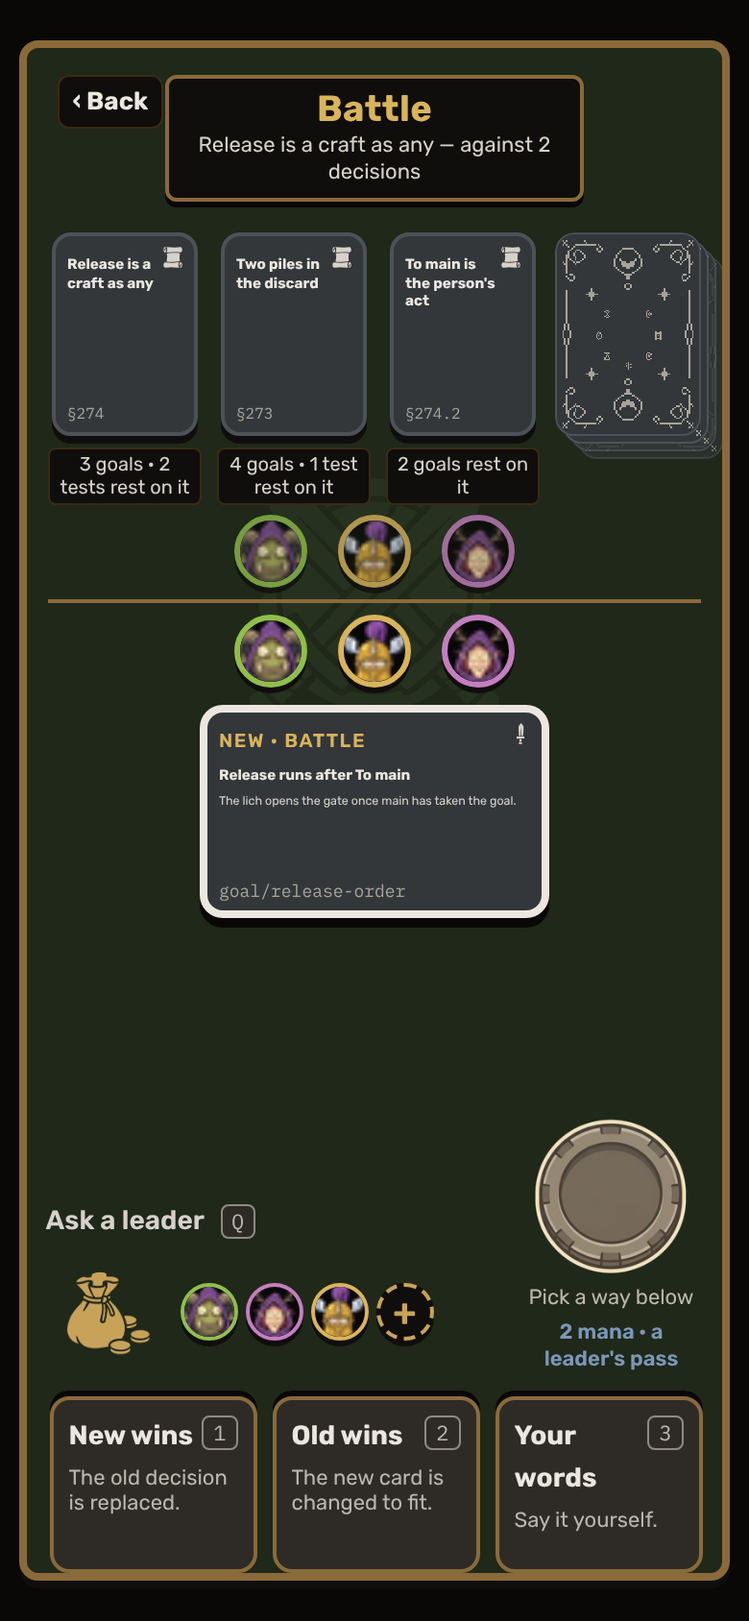
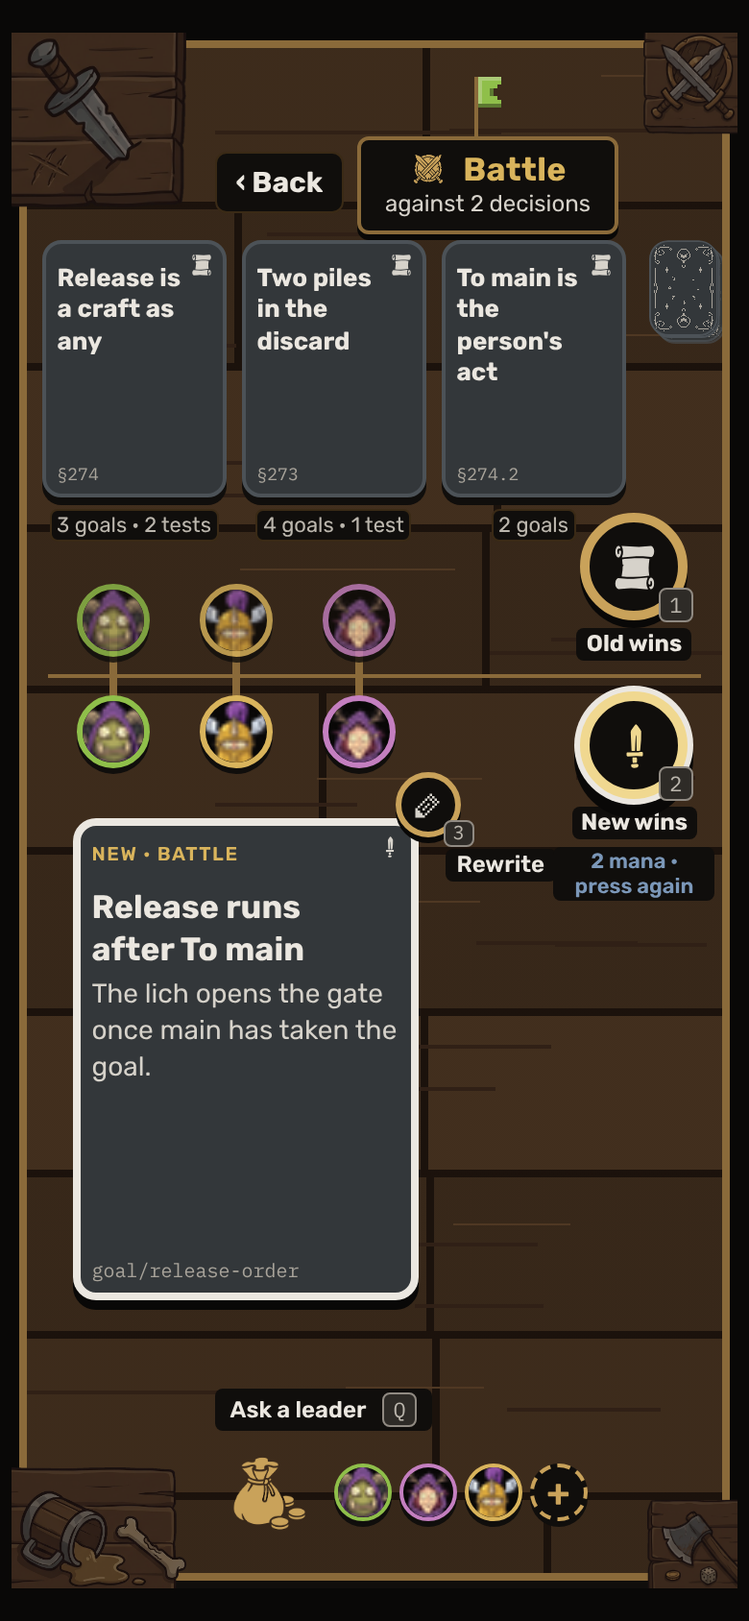
The battle field's mockup on a tavern's wooden table: props in the corners, no hand or seal, the move two tokens on the line's sides
Claude-Session: https://claude.ai/code/session_01MCU3dnmwpxzAdFr5WE7TTZ

diff --git a/docs/mockups/battle-field/index.html b/docs/mockups/battle-field/index.html
@@ -8,150 +8,185 @@
 <link rel="stylesheet" href="../../../design-system/orkui/tokens.css">
 <link rel="stylesheet" href="../../../design-system/orkui/components.css">
 <style>
-:root { --R: ../../../design-system/orkui/races/; --G: ../../../design-system/orkui/signs/; --E: emblems/;
-  --felt: var(--ork-felt-ork-3); --felt-hi: var(--ork-felt-ork-2);
-  --cw: 158px; --nw: 172px; --tk: 46px; --seal: 112px; --pouch: 100px; --hw: 150px; --pad: 110px; }
+:root { --wood-a: color-mix(in srgb, var(--ork-leather) 46%, var(--ork-room)); --wood-b: color-mix(in srgb, var(--ork-leather) 41%, var(--ork-room));
+  --wood-c: color-mix(in srgb, var(--ork-leather) 50%, var(--ork-room)); --seam: color-mix(in srgb, var(--ork-leather-edge) 55%, var(--ork-room));
+  --grain: color-mix(in srgb, var(--ork-leather-lo) 60%, var(--ork-room)); --grain-hi: color-mix(in srgb, var(--ork-leather) 62%, var(--ork-room));
+  --ph: 96px; --sm: 4px;
+  --cw: 158px; --nw: 190px; --tk: 46px; --chp: 64px; --pouch: 100px; --pad: 112px; --prop: 170px; --em: 20px; }
 * { box-sizing: border-box; }
 html, body { margin: 0; height: 100%; }
 body { background: var(--ork-room); color: var(--ork-ink); font: var(--ork-type-body); overflow: hidden; }
 body[data-face="desk"] { width: 1440px; height: 900px; }
-body[data-face="phone"] { width: 390px; height: 844px; --cw: 76px; --nw: 178px; --tk: 38px; --seal: 84px; --pouch: 64px; --hw: 108px; --pad: 0px; }
+body[data-face="phone"] { width: 390px; height: 844px; --ph: 80px; --cw: 96px; --nw: 176px; --tk: 38px; --chp: 56px; --pouch: 56px; --pad: 100px; --prop: 91px; }
 .stage { position: absolute; inset: 2.5%; }
-.field { position: absolute; inset: 0; background: var(--felt); border: 4px solid var(--ork-bronze); border-radius: var(--ork-radius-card);
-  box-shadow: 0 4px 0 var(--ork-plate); overflow: hidden; display: flex; flex-direction: column; }
-.mono { font-family: var(--ork-font-code); }
+.field { position: absolute; inset: 0; border: 4px solid var(--ork-bronze); border-radius: var(--ork-radius-card); box-shadow: 0 4px 0 var(--ork-plate);
+  overflow: hidden; display: flex; flex-direction: column;
+  background: repeating-linear-gradient(180deg,
+    var(--wood-a) 0 var(--ph), var(--seam) var(--ph) calc(var(--ph) + var(--sm)),
+    var(--wood-b) calc(var(--ph) + var(--sm)) calc(2 * var(--ph) + var(--sm)), var(--seam) calc(2 * var(--ph) + var(--sm)) calc(2 * var(--ph) + 2 * var(--sm)),
+    var(--wood-c) calc(2 * var(--ph) + 2 * var(--sm)) calc(3 * var(--ph) + 2 * var(--sm)), var(--seam) calc(3 * var(--ph) + 2 * var(--sm)) calc(3 * var(--ph) + 3 * var(--sm)),
+    var(--wood-b) calc(3 * var(--ph) + 3 * var(--sm)) calc(4 * var(--ph) + 3 * var(--sm)), var(--seam) calc(4 * var(--ph) + 3 * var(--sm)) calc(4 * var(--ph) + 4 * var(--sm))); }
+.grain { position: absolute; inset: 0; z-index: 0; pointer-events: none; }
+.grain i { position: absolute; display: block; height: 2px; background: var(--grain); }
+.grain i.hi { background: var(--grain-hi); height: 1px; } .grain i.bt { width: var(--sm); height: var(--ph); background: var(--seam); }
+/* corner props */
+.prop { position: absolute; z-index: 20; pointer-events: none; filter: brightness(.47) saturate(.9); }
+.prop img { display: block; max-width: var(--prop); max-height: var(--prop); width: auto; height: auto; }
+.prop.tl { left: -4px; top: -4px; } .prop.tr { right: -4px; top: -4px; } .prop.bl { left: -4px; bottom: -4px; } .prop.br { right: -4px; bottom: -4px; }
 /* top */
-.top { position: absolute; top: 14px; left: 16px; right: 16px; display: flex; justify-content: center; z-index: 5; pointer-events: none; }
-.back { position: absolute; left: 0; top: 0; pointer-events: auto; display: flex; gap: 8px; align-items: center; padding: 6px 10px; font: var(--ork-type-button);
-  background: var(--ork-plate); border: 1px solid var(--ork-bronze-lo); border-radius: var(--ork-radius-control); color: var(--ork-ink); }
+.top { position: absolute; top: 44px; left: 0; right: 0; display: flex; justify-content: center; z-index: 5; }
+body[data-face="desk"] .back { left: 190px; }
+.back { position: absolute; top: 14px; display: flex; gap: 8px; align-items: center; padding: 6px 10px; font: var(--ork-type-button);
+  background: var(--ork-plate); border: 1px solid var(--ork-bronze-lo); border-radius: var(--ork-radius-control); color: var(--ork-ink); white-space: nowrap; }
 kbd { font: 500 11px/14px var(--ork-font-code); padding: 1px 5px; border: 1px solid var(--ork-edge); border-radius: 4px; color: var(--ork-ink-muted); background: var(--ork-raised); }
-.plate { text-align: center; padding: 6px 18px 8px; background: var(--ork-plate); border: 2px solid var(--ork-bronze); border-radius: var(--ork-radius-control); box-shadow: 0 3px 0 var(--ork-room); max-width: 60%; }
-.plate b { display: block; font: var(--ork-type-title); letter-spacing: var(--ork-type-title-track); color: var(--ork-gilt); }
+.plate { position: relative; text-align: center; padding: 6px 18px 8px; background: var(--ork-plate); border: 2px solid var(--ork-bronze); border-radius: var(--ork-radius-control); box-shadow: 0 3px 0 var(--ork-room); }
+.plate b { display: flex; justify-content: center; align-items: center; gap: 8px; font: var(--ork-type-title); letter-spacing: var(--ork-type-title-track); color: var(--ork-gilt); }
+.plate b i { width: var(--em); height: var(--em); background: var(--ork-bronze-hi); -webkit-mask: url(emblems/battle.png) center / contain no-repeat; mask: url(emblems/battle.png) center / contain no-repeat; }
 .plate span { display: block; font: var(--ork-type-caption); color: var(--ork-ink-read); }
+.plate .ork-pennant { position: absolute; left: 50%; bottom: calc(100% + 1px); translate: -50% 0; }
+.plate .full { display: inline; } .plate .short { display: none; }
+body[data-face="phone"] .top { top: 46px; left: 98px; right: 54px; justify-content: flex-start; }
+body[data-face="phone"] .back { left: 0; top: 8px; }
+body[data-face="phone"] .plate { margin-left: 74px; flex: 1; padding: 4px 8px 6px; }
+body[data-face="phone"] .plate span { font-size: 12px; line-height: 15px; }
+body[data-face="phone"] .plate .full { display: none; } body[data-face="phone"] .plate .short { display: inline; }
+body[data-face="phone"] .plate b { font-size: 17px; line-height: 22px; }
 /* zones */
 .zone { flex: 1 1 0; min-height: 0; display: flex; justify-content: center; position: relative; z-index: 2; }
-.oldz { align-items: flex-start; gap: 20px; padding-top: var(--pad); padding-bottom: 64px; }
-.newz { align-items: flex-start; padding-bottom: var(--pad); padding-top: 62px; justify-content: center; }
-.linezone { position: relative; height: 0; }
-.line { position: absolute; left: 3%; right: 3%; top: -1px; height: 2px; background: var(--ork-bronze); z-index: 1; }
-.emblem { position: absolute; left: 50%; top: 0; width: var(--em); height: var(--em); translate: -50% -50%; background: var(--felt-hi);
-  -webkit-mask: url(emblems/battle.png) center / contain no-repeat; mask: url(emblems/battle.png) center / contain no-repeat; z-index: 1; }
-.field { --em: 385px; }
-body[data-face="phone"] .field { --em: 171px; }
-.toks { position: absolute; left: 50%; translate: -50% 0; display: flex; gap: 16px; z-index: 4; }
-.toks.up { bottom: 7px; } .toks.dn { top: 7px; }
-.tk { width: var(--tk); height: var(--tk); border-radius: 50%; background: var(--ork-room); border: 3px solid var(--hue); display: grid; place-items: center; overflow: hidden;
-  box-shadow: 0 3px 0 var(--ork-plate); flex: none; }
+.oldz { align-items: flex-start; gap: 18px; padding-top: var(--pad); padding-bottom: 70px; }
+.newz { align-items: flex-start; padding-top: 66px; }
+.linezone { position: relative; height: 0; z-index: 3; }
+.line { position: absolute; left: 3%; right: 3%; top: -1px; height: 2px; background: var(--ork-bronze); }
+/* leaders' columns */
+.cols { position: absolute; left: 30%; top: 0; translate: -50% 0; display: flex; gap: 26px; }
+.lc { position: relative; width: var(--tk); height: 0; }
+.lc .tie { position: absolute; left: 50%; width: 4px; translate: -50% 0; top: calc(-10px - var(--tk) / 2); height: calc(20px + var(--tk)); background: var(--ork-bronze); border-radius: 2px; }
+.tk { position: absolute; left: 0; width: var(--tk); height: var(--tk); border-radius: 50%; background: var(--ork-room); border: 3px solid var(--hue); display: grid; place-items: center; overflow: hidden; box-shadow: 0 3px 0 var(--ork-plate); }
 .tk img { width: 112%; height: 112%; object-fit: cover; object-position: center 20%; }
-.tk.was { opacity: .78; }
-.tk.add { background: var(--ork-plate); border: 2px dashed var(--ork-bronze-hi); color: var(--ork-bronze-hi); font: 700 20px/1 var(--ork-font-text); }
+.tk.was { bottom: 10px; opacity: .8; } .tk.is { top: 10px; }
 .tech { --hue: var(--ork-party-ork); } .design { --hue: var(--ork-party-elf); } .product { --hue: var(--ork-party-knight); }
+/* move chips */
+.mv { position: absolute; right: 80px; display: flex; flex-direction: column; align-items: center; gap: 4px; width: 150px; text-align: center; z-index: 4; }
+body[data-face="phone"] .mv { right: 4px; width: 84px; }
+.mv.up { bottom: 8px; } .mv.dn { top: 8px; }
+.chip { position: relative; width: var(--chp); height: var(--chp); border-radius: 50%; background: var(--ork-plate); border: 5px solid var(--ork-bronze-hi); box-shadow: 0 4px 0 var(--ork-room); display: grid; place-items: center; }
+.chip i { width: 55%; height: 55%; background: var(--ork-ink-read); -webkit-mask: var(--m) center / contain no-repeat; mask: var(--m) center / contain no-repeat; }
+.chip kbd { position: absolute; right: -8px; bottom: -6px; }
+.chip.armed { border-color: var(--ork-gilt-hi); box-shadow: 0 0 0 3px var(--ork-ink), 0 7px 0 3px var(--ork-room); }
+.chip.armed i { background: var(--ork-gilt-hi); }
+.mv b { font: var(--ork-type-heading); font-size: 14px; line-height: 17px; padding: 1px 7px; background: var(--ork-plate); border-radius: 4px; }
+.mv small { font: 600 12px/15px var(--ork-font-text); color: var(--ork-mana); background: var(--ork-plate); padding: 1px 6px; border-radius: 4px; }
+body[data-face="phone"] .mv b { font-size: 12px; line-height: 15px; padding: 1px 5px; } body[data-face="phone"] .mv small { font-size: 11px; line-height: 13px; padding: 1px 4px; }
 /* cards */
 .col { display: flex; flex-direction: column; align-items: center; gap: 6px; }
 .card { position: relative; width: var(--cw); height: calc(var(--cw) * 1.4); overflow: hidden; padding: 12px 10px 10px; background: var(--ork-card); border: 2px solid var(--ork-card-frame);
   border-radius: var(--ork-radius-card); box-shadow: 0 4px 0 var(--ork-plate); display: flex; flex-direction: column; gap: 4px; }
-.card .sg { position: absolute; top: 8px; right: 8px; width: 18px; height: 18px; background: var(--ork-ink-read);
-  -webkit-mask: var(--m) center / contain no-repeat; mask: var(--m) center / contain no-repeat; }
+.card .sg { position: absolute; top: 8px; right: 8px; width: 18px; height: 18px; background: var(--ork-ink-read); -webkit-mask: var(--m) center / contain no-repeat; mask: var(--m) center / contain no-repeat; }
 .card .kind { font: var(--ork-type-label); text-transform: uppercase; letter-spacing: .08em; font-size: 10px; line-height: 14px; color: var(--ork-ink-muted); }
-.card b { font: 700 calc(var(--cw) * .1)/1.25 var(--ork-font-text); margin-top: 6px; padding-right: 6px; }
-.card .ln { font-size: calc(var(--cw) * .082); line-height: 1.35; color: var(--ork-ink-read); }
-.card .id { margin-top: auto; font: 500 calc(var(--cw) * .07)/1 var(--ork-font-code); color: var(--ork-ink-faint); }
-.card.sel { width: var(--nw); border-color: var(--ork-ink); box-shadow: 0 0 0 2px var(--ork-ink), 0 5px 0 2px var(--ork-room); }
-.card.sel .kind { color: var(--ork-gilt); }
-.rest { width: calc(var(--cw) + 8px); padding: 3px 6px; text-align: center; background: var(--ork-plate); border: 1px solid var(--ork-bronze-lo); border-radius: 4px; font: 400 calc(11px) / 14px var(--ork-font-text); color: var(--ork-ink-read); }
-body[data-face="phone"] .rest { font-size: 10px; line-height: 12px; padding: 2px 3px; width: calc(var(--cw) + 4px); }
+.card b { font: 700 16px/1.25 var(--ork-font-text); margin-top: 6px; padding-right: 6px; }
+.card .ln { font-size: 13px; line-height: 1.35; color: var(--ork-ink-read); }
+.card .id { margin-top: auto; font: 500 11px/1 var(--ork-font-code); color: var(--ork-ink-faint); }
+.newwrap { position: relative; }
+.card.sel { width: var(--nw); height: calc(var(--nw) * 1.4); border-color: var(--ork-ink); box-shadow: 0 0 0 2px var(--ork-ink), 0 5px 0 2px var(--ork-room); }
+.card.sel .kind { color: var(--ork-gilt); } .card.sel b { font-size: 19px; } .card.sel .ln { font-size: 14px; }
+.rest { white-space: nowrap; padding: 2px 6px; text-align: center; background: var(--ork-plate); border: 1px solid var(--ork-bronze-lo); border-radius: 4px; font: 400 12px/15px var(--ork-font-text); color: var(--ork-ink-muted); }
 .pile { position: relative; width: var(--cw); height: calc(var(--cw) * 1.4); margin-left: 10px; flex: none; }
 .pile .ork-card-back { position: absolute; width: 100%; box-shadow: none; }
 .pile .ork-card-back:nth-child(1) { left: 12px; top: 12px; opacity: .6; } .pile .ork-card-back:nth-child(2) { left: 8px; top: 8px; opacity: .8; }
 .pile .ork-card-back:nth-child(3) { left: 4px; top: 4px; } .pile .ork-card-back:nth-child(4) { left: 0; top: 0; }
+.rewrite { position: absolute; right: -24px; top: -26px; width: 34px; height: 34px; z-index: 6; }
+.rewrite .chip { --chp: 34px; border-width: 3px; box-shadow: 0 3px 0 var(--ork-room); }
+.rewrite .chip kbd { right: -10px; bottom: -8px; font-size: 10px; line-height: 12px; padding: 0 4px; }
+.rewrite .lab { position: absolute; left: calc(100% - 8px); top: 40px; font: 600 12px/15px var(--ork-font-text); background: var(--ork-plate); padding: 1px 6px; border-radius: 4px; white-space: nowrap; }
 .desk-only { display: block; } body[data-face="phone"] .desk-only { display: none; }
-/* pouch and seal */
-.pouchbar { position: absolute; left: 20px; bottom: 120px; z-index: 6; display: flex; align-items: center; gap: 10px; }
-.pouch { width: var(--pouch); height: var(--pouch); background: var(--ork-bronze-hi); flex: none;
-  -webkit-mask: url(emblems/pouch.png) center / contain no-repeat; mask: url(emblems/pouch.png) center / contain no-repeat; }
-.pouchbar .cap { position: absolute; left: 0; bottom: calc(100% + 6px); white-space: nowrap; display: flex; gap: 8px; align-items: center; font: var(--ork-type-label); text-transform: none; letter-spacing: 0; color: var(--ork-ink-read); }
-.pouchbar .tk { --tk: 38px; width: 38px; height: 38px; }
+/* pouch */
+.pouchbar { position: absolute; z-index: 6; display: flex; align-items: center; gap: 10px; left: 190px; bottom: 26px; }
+.pouch { width: var(--pouch); height: var(--pouch); background: var(--ork-bronze-hi); flex: none; -webkit-mask: url(emblems/pouch.png) center / contain no-repeat; mask: url(emblems/pouch.png) center / contain no-repeat; }
+.pouchbar .cap { position: absolute; left: 0; bottom: calc(100% + 4px); white-space: nowrap; display: flex; gap: 8px; align-items: center; font: 600 13px/16px var(--ork-font-text); background: var(--ork-plate); padding: 2px 8px; border-radius: 4px; }
 .pouchbar .row { display: flex; gap: 6px; align-items: center; }
-.sealbar { position: absolute; right: 20px; bottom: 120px; z-index: 6; display: flex; align-items: center; gap: 12px; }
-.sealbar .why { text-align: right; font: var(--ork-type-caption); color: var(--ork-ink-muted); max-width: 150px; }
-.sealbar .why em { display: block; margin-top: 4px; font-style: normal; font-weight: 600; color: var(--ork-mana); }
-.sealbar img { width: var(--seal); height: var(--seal); display: block; image-rendering: auto; }
-/* hand */
-.hand { position: absolute; left: 0; right: 0; bottom: 0; z-index: 8; display: flex; justify-content: center; gap: 10px; height: 118px; align-items: flex-start; padding-top: 4px; }
-.way { width: var(--hw); height: 130px; padding: 10px; background: var(--ork-raised); border: 2px solid var(--ork-bronze); border-radius: var(--ork-radius-card);
-  box-shadow: 0 -3px 0 var(--ork-room); display: flex; flex-direction: column; gap: 4px; flex: none; transform-origin: 50% 160%; }
-.way b { font: var(--ork-type-heading); padding-right: 26px; } .way small { font: var(--ork-type-caption); font-size: 12px; line-height: 15px; color: var(--ork-ink-muted); }
-.way kbd { position: absolute; right: 8px; top: 8px; } .way { position: relative; }
-.way:nth-child(1) { rotate: -5deg; translate: 8px 6px; } .way:nth-child(3) { rotate: 5deg; translate: -8px 6px; }
-body[data-face="phone"] .field { --em: 171px; }
-body[data-face="phone"] .oldz { gap: 8px; padding-top: 96px; padding-bottom: 50px; }
-body[data-face="phone"] .pile { margin-left: 0; }
-body[data-face="phone"] .card b { padding-right: 12px; }
-body[data-face="phone"] .way b { padding-right: 20px; font-size: 14px; }
-body[data-face="phone"] .newz { padding-top: 56px; padding-bottom: 0; flex: 0 0 auto; }
-body[data-face="phone"] .oldz { flex: 0 0 auto; }
-body[data-face="phone"] .zone.spacer { flex: 1; }
+.pouchbar .tk { position: static; --tk: 38px; width: 38px; height: 38px; }
+.pouchbar .tk.add { background: var(--ork-plate); border: 2px dashed var(--ork-bronze-hi); color: var(--ork-bronze-hi); font: 700 20px/1 var(--ork-font-text); }
+/* phone */
+body[data-face="phone"] .oldz { flex: 0 0 auto; gap: 8px; padding: var(--pad) 8px 70px; justify-content: flex-start; }
+body[data-face="phone"] .newz { flex: 0 0 auto; padding-top: 76px; justify-content: flex-start; padding-left: 26px; }
+body[data-face="phone"] .pile { width: 40px; margin-left: 4px; }
+body[data-face="phone"] .pile .ork-card-back { width: 36px; }
+body[data-face="phone"] .pile .ork-card-back:nth-child(1) { left: 4px; top: 4px; } body[data-face="phone"] .pile .ork-card-back:nth-child(2) { left: 3px; top: 3px; }
+body[data-face="phone"] .pile .ork-card-back:nth-child(3) { left: 1px; top: 1px; }
 body[data-face="phone"] .card { padding: 8px 6px 6px; }
 body[data-face="phone"] .card .sg { width: 12px; height: 12px; top: 5px; right: 5px; }
-body[data-face="phone"] .card .kind { display: none; }
-body[data-face="phone"] .card.sel .kind { display: block; }
-body[data-face="phone"] .card b { margin-top: 2px; }
-body[data-face="phone"] .card .ln { display: none; } body[data-face="phone"] .card.sel .ln { display: block; }
-body[data-face="phone"] .card .id { font-size: 8px; } body[data-face="phone"] .card.sel .id { font-size: 9px; }
-body[data-face="phone"] .pouchbar { left: 10px; bottom: 104px; } body[data-face="phone"] .sealbar { right: 10px; bottom: 104px; flex-direction: column-reverse; gap: 4px; align-items: center; }
-body[data-face="phone"] .sealbar .why { max-width: 96px; font-size: 11px; line-height: 14px; text-align: center; }
+body[data-face="phone"] .card .kind { display: none; } body[data-face="phone"] .card.sel .kind { display: block; }
+body[data-face="phone"] .card b { font-size: 13px; margin-top: 2px; padding-right: 12px; } body[data-face="phone"] .card.sel b { font-size: 17px; padding-right: 6px; margin-top: 6px; }
+body[data-face="phone"] .card .ln { display: none; } body[data-face="phone"] .card.sel .ln { display: block; font-size: 14px; }
+body[data-face="phone"] .card .id { font-size: 9px; } body[data-face="phone"] .card.sel .id { font-size: 10px; }
+body[data-face="phone"] .rest { font-size: 11px; line-height: 13px; padding: 1px 3px; }
+body[data-face="phone"] .back kbd { display: none; }
+body[data-face="phone"] .pouchbar { left: 98px; bottom: 14px; gap: 6px; }
 body[data-face="phone"] .pouchbar .tk { --tk: 30px; width: 30px; height: 30px; border-width: 2px; }
-body[data-face="phone"] .pouchbar .row { gap: 4px; } body[data-face="phone"] .pouchbar { gap: 6px; }
-body[data-face="phone"] .hand { justify-content: flex-start; overflow-x: auto; padding: 4px 12px 0; gap: 8px; height: 96px; }
-body[data-face="phone"] .way { height: 92px; padding: 8px; rotate: 0deg !important; translate: none !important; }
-body[data-face="phone"] .way small { font-size: 11px; line-height: 13px; }
-body[data-face="phone"] .plate { max-width: 66%; padding: 4px 10px 6px; } body[data-face="phone"] .plate span { font-size: 11px; line-height: 14px; }
-body[data-face="phone"] .back { padding: 4px 7px; font-size: 13px; } body[data-face="phone"] .back kbd { display: none; }
+body[data-face="phone"] .pouchbar .row { gap: 4px; } body[data-face="phone"] .pouchbar .cap { font-size: 12px; }
 </style>
 </head>
 <body data-face="desk">
 <script>try { if (new URLSearchParams(location.search).get("face") === "phone") document.body.dataset.face = "phone"; } catch (e) {}</script>
 <div class="stage"><div class="field" data-party="ork">
+  <div class="grain" id="grain" aria-hidden="true"></div>
+
   <div class="top">
     <span class="back">‹ Back <kbd>Esc</kbd></span>
-    <div class="plate"><b>Battle</b><span>Release is a craft as any — against 2 decisions</span></div>
+    <div class="plate"><span class="ork-pennant" data-party="tech" aria-hidden="true"></span><b><i aria-hidden="true"></i>Battle</b><span><em class="full" style="font-style:normal">Release is a craft as any — against 2 decisions</em><em class="short" style="font-style:normal">against 2 decisions</em></span></div>
   </div>
 
   <div class="zone oldz">
-    <div class="col"><div class="card" style="--m:url(../../../design-system/orkui/signs/page.svg)"><i class="sg"></i><span class="kind">Decision</span><b>Release is a craft as any</b><span class="ln">Product, Tech and Design stand beside it.</span><span class="id">§274</span></div><span class="rest">3 goals · 2 tests rest on it</span></div>
-    <div class="col"><div class="card" style="--m:url(../../../design-system/orkui/signs/page.svg)"><i class="sg"></i><span class="kind">Decision</span><b>Two piles in the discard</b><span class="ln">Dev and main, side by side.</span><span class="id">§273</span></div><span class="rest">4 goals · 1 test rest on it</span></div>
-    <div class="col"><div class="card" style="--m:url(../../../design-system/orkui/signs/page.svg)"><i class="sg"></i><span class="kind">Decision</span><b>To main is the person's act</b><span class="ln">After the gate's tests, never before.</span><span class="id">§274.2</span></div><span class="rest">2 goals rest on it</span></div>
-    <div class="col desk-only"><div class="card" style="--m:url(../../../design-system/orkui/signs/page.svg)"><i class="sg"></i><span class="kind">Decision</span><b>The hand holds what the person decides</b><span class="ln">Places sit at its right.</span><span class="id">§145</span></div><span class="rest">5 goals · 3 tests rest on it</span></div>
+    <div class="col"><div class="card" style="--m:url(../../../design-system/orkui/signs/page.svg)"><i class="sg"></i><span class="kind">Decision</span><b>Release is a craft as any</b><span class="ln">Product, Tech and Design stand beside it.</span><span class="id">§274</span></div><span class="rest">3 goals · 2 tests</span></div>
+    <div class="col"><div class="card" style="--m:url(../../../design-system/orkui/signs/page.svg)"><i class="sg"></i><span class="kind">Decision</span><b>Two piles in the discard</b><span class="ln">Dev and main, side by side.</span><span class="id">§273</span></div><span class="rest">4 goals · 1 test</span></div>
+    <div class="col"><div class="card" style="--m:url(../../../design-system/orkui/signs/page.svg)"><i class="sg"></i><span class="kind">Decision</span><b>To main is the person's act</b><span class="ln">After the gate's tests, never before.</span><span class="id">§274.2</span></div><span class="rest">2 goals</span></div>
+    <div class="col desk-only"><div class="card" style="--m:url(../../../design-system/orkui/signs/page.svg)"><i class="sg"></i><span class="kind">Decision</span><b>The hand holds what the person decides</b><span class="ln">Places sit at its right.</span><span class="id">§145</span></div><span class="rest">5 goals · 3 tests</span></div>
     <div class="col"><div class="pile" aria-hidden="true"><div class="ork-card-back"></div><div class="ork-card-back"></div><div class="ork-card-back"></div><div class="ork-card-back"></div></div></div>
   </div>
 
   <div class="linezone">
-    <i class="emblem" aria-hidden="true"></i>
     <i class="line"></i>
-    <div class="toks up"><span class="tk tech was"><img src="../../../design-system/orkui/races/shaman-elder.png" alt="Tech's leader"></span><span class="tk product was"><img src="../../../design-system/orkui/races/unicorn-elder.png" alt="Product's leader"></span><span class="tk design was"><img src="../../../design-system/orkui/races/dryad-elder.png" alt="Design's leader"></span></div>
-    <div class="toks dn"><span class="tk tech"><img src="../../../design-system/orkui/races/shaman-elder.png" alt="Tech's leader"></span><span class="tk product"><img src="../../../design-system/orkui/races/unicorn-elder.png" alt="Product's leader"></span><span class="tk design"><img src="../../../design-system/orkui/races/dryad-elder.png" alt="Design's leader"></span></div>
+    <div class="cols">
+      <div class="lc tech"><i class="tie"></i><span class="tk was tech"><img src="../../../design-system/orkui/races/shaman-elder.png" alt="Tech's leader, against"></span><span class="tk is tech"><img src="../../../design-system/orkui/races/shaman-elder.png" alt="Tech's leader, for"></span></div>
+      <div class="lc product"><i class="tie"></i><span class="tk was product"><img src="../../../design-system/orkui/races/unicorn-elder.png" alt="Product's leader, against"></span><span class="tk is product"><img src="../../../design-system/orkui/races/unicorn-elder.png" alt="Product's leader, for"></span></div>
+      <div class="lc design"><i class="tie"></i><span class="tk was design"><img src="../../../design-system/orkui/races/dryad-elder.png" alt="Design's leader, against"></span><span class="tk is design"><img src="../../../design-system/orkui/races/dryad-elder.png" alt="Design's leader, for"></span></div>
+    </div>
+    <div class="mv up"><span class="chip" style="--m:url(../../../design-system/orkui/signs/page.svg)"><i></i><kbd>1</kbd></span><b>Old wins</b></div>
+    <div class="mv dn"><span class="chip armed" style="--m:url(../../../design-system/orkui/signs/sword.svg)"><i></i><kbd>2</kbd></span><b>New wins</b><small>2 mana · press again</small></div>
   </div>
 
   <div class="zone newz">
-    <div class="card sel" style="--m:url(../../../design-system/orkui/signs/sword.svg)"><i class="sg"></i><span class="kind">New · battle</span><b>Release runs after To main</b><span class="ln">The lich opens the gate once main has taken the goal.</span><span class="id">goal/release-order</span></div>
+    <div class="newwrap">
+      <div class="card sel" style="--m:url(../../../design-system/orkui/signs/sword.svg)"><i class="sg"></i><span class="kind">New · battle</span><b>Release runs after To main</b><span class="ln">The lich opens the gate once main has taken the goal.</span><span class="id">goal/release-order</span></div>
+      <div class="rewrite"><span class="chip" style="--m:url(../../../design-system/orkui/icons/src/pencil.svg)"><i></i><kbd>3</kbd></span><span class="lab">Rewrite</span></div>
+    </div>
   </div>
-  <div class="zone spacer" style="display:none"></div>
 
   <div class="pouchbar">
     <span class="cap">Ask a leader <kbd>Q</kbd></span>
     <i class="pouch" aria-hidden="true"></i>
     <div class="row"><span class="tk tech"><img src="../../../design-system/orkui/races/shaman-elder.png" alt="Tech"></span><span class="tk design"><img src="../../../design-system/orkui/races/dryad-elder.png" alt="Design"></span><span class="tk product"><img src="../../../design-system/orkui/races/unicorn-elder.png" alt="Product"></span><span class="tk add" title="Ask another…">+</span></div>
   </div>
-  <div class="sealbar">
-    <div class="why">Pick a way below<em>2 mana · a leader's pass</em></div>
-    <img src="../../../design-system/orkui/seal/dim@2x.png" alt="The seal, dim: pick a way first">
-  </div>
-
-  <div class="hand">
-    <div class="way"><kbd>1</kbd><b>New wins</b><small>The old decision is replaced.</small></div>
-    <div class="way"><kbd>2</kbd><b>Old wins</b><small>The new card is changed to fit.</small></div>
-    <div class="way"><kbd>3</kbd><b>Your words</b><small>Say it yourself.</small></div>
-  </div>
-</div></div>
+</div>
+<div class="prop tl" aria-hidden="true"><img src="props/battle-tl.png" alt=""></div>
+<div class="prop tr" aria-hidden="true"><img src="props/battle-tr.png" alt=""></div>
+<div class="prop bl" aria-hidden="true"><img src="props/battle-bl.png" alt=""></div>
+<div class="prop br" aria-hidden="true"><img src="props/battle-br.png" alt=""></div>
+</div>
+<script>
+/* the table's butt joints and a few short grain lines, drawn once from a fixed seed */
+(function () {
+  var g = document.getElementById("grain"), f = g.parentNode, W = f.clientWidth, H = f.clientHeight;
+  var cs = getComputedStyle(document.body), ph = parseFloat(cs.getPropertyValue("--ph")), sm = 4, s = 7;
+  function r() { s = (s * 1103515245 + 12345) % 2147483648; return s / 2147483648; }
+  for (var y = 0, row = 0; y < H; y += ph + sm, row++) {
+    var bt = document.createElement("i"); bt.className = "bt"; bt.style.left = Math.round(W * (0.15 + 0.7 * r())) + "px"; bt.style.top = y + "px"; g.appendChild(bt);
+    for (var k = 0; k < 3; k++) {
+      var l = document.createElement("i"); l.className = k === 2 ? "hi" : ""; l.style.left = Math.round(W * r() * 0.9) + "px";
+      l.style.top = Math.round(y + 10 + r() * (ph - 20)) + "px"; l.style.width = Math.round(40 + r() * 110) + "px"; g.appendChild(l);
+    }
+  }
+})();
+</script>
 </body>
 </html>
